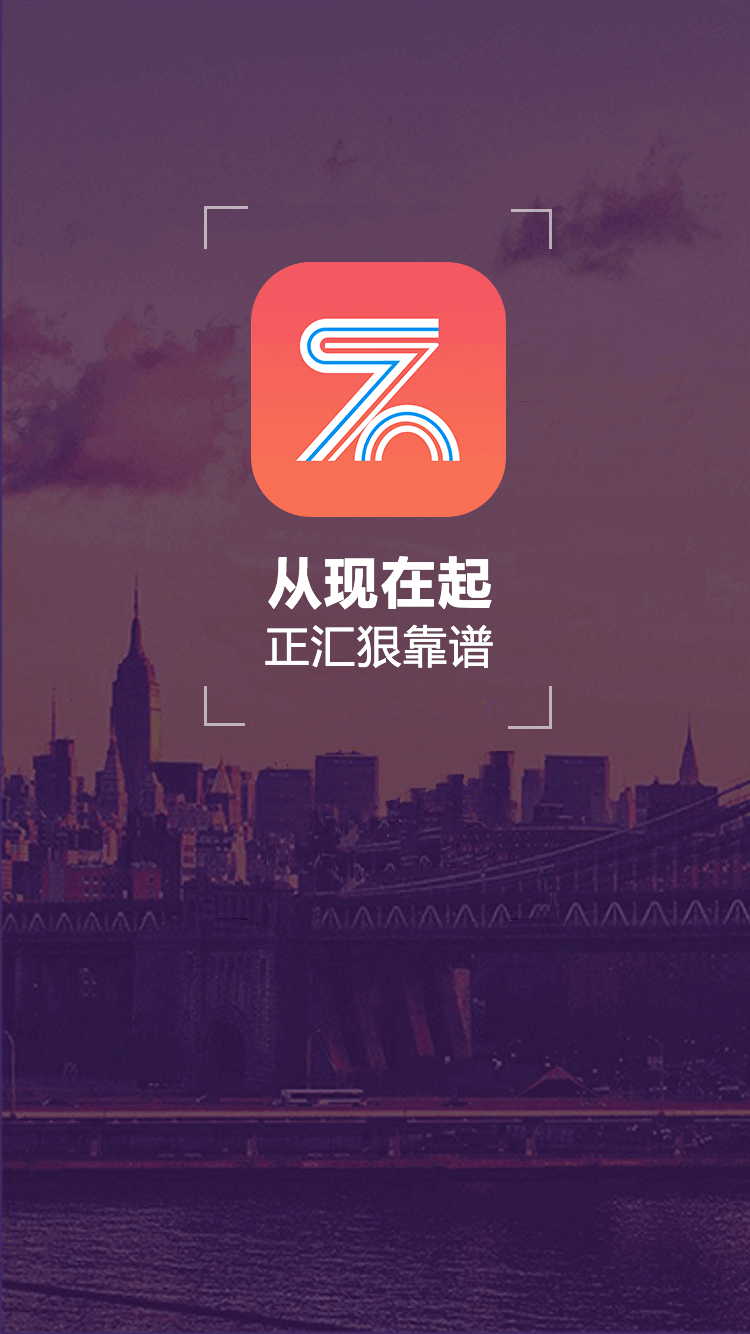
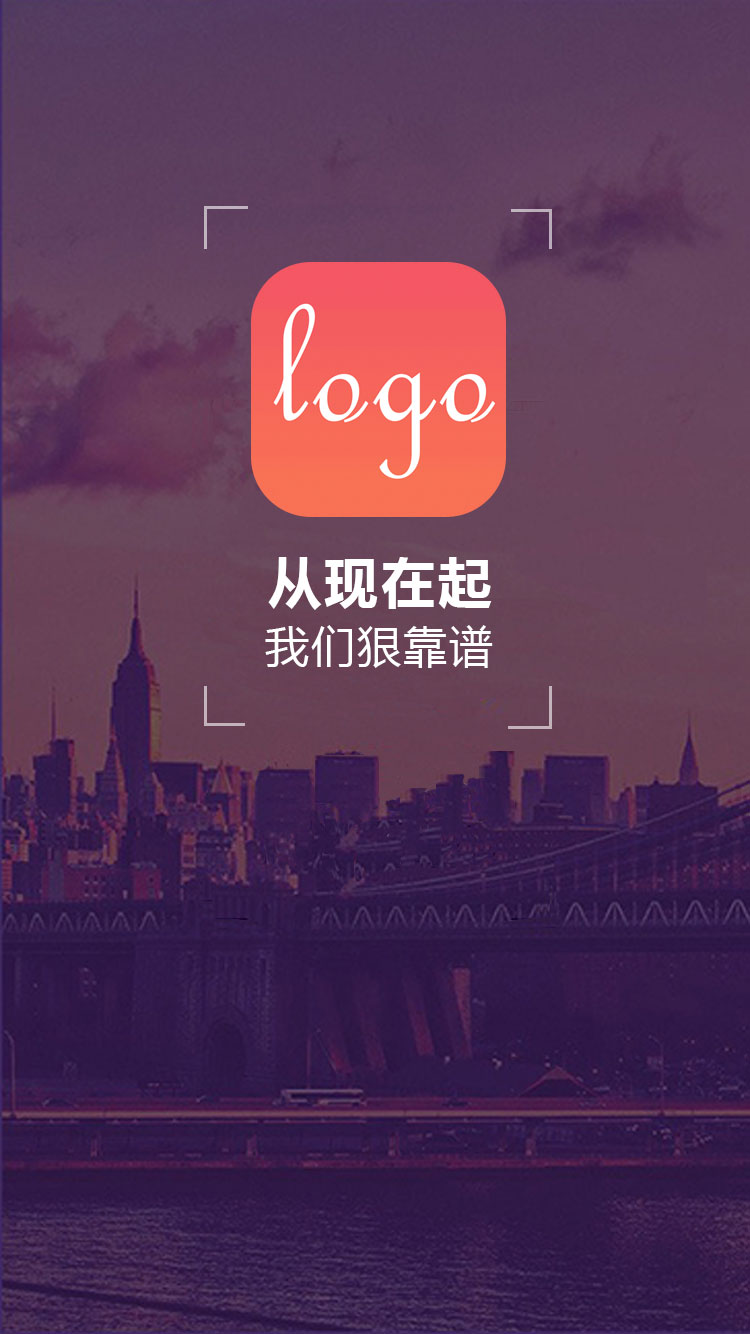
测试版

Changed region(s): [[0.368, 0.2151, 0.6747, 0.3688], [0.3373, 0.4303, 0.644, 0.5225]]

diff --git a/static/html/user/register.html b/static/html/user/register.html
@@ -3,7 +3,7 @@
 
 <head>
     <link rel="import" href="../head.html?__inline">
-    <title>正汇钱包邀您玩转红包；小目标，发一发，摇一摇，聊一聊各种红包玩法，大胸图片</title>
+    <title>会员注册</title>
 	<script src="http://webapi.amap.com/maps?v=1.3&key=24492d6713513af2467d2fd472c8e68d"></script>
 </head>
 
@@ -34,7 +34,7 @@
 		</div>
 		
 		<input type="button" class="rbtn-sub" id="rbtn-sub" value="确定" />
-		<div class="wp100 tc"><p class="rtxt r-protocol">注册即代表同意《正汇钱包用户协议》</p></div>
+		<div class="wp100 tc"><p class="rtxt r-protocol">注册即代表同意《用户协议》</p></div>
 	</div>
 	
 	<div class="r-popup popup-protocol">

diff --git a/static/html/share/share-db.html b/static/html/share/share-db.html
@@ -3,7 +3,7 @@
 
 <head>
     <link rel="import" href="../head.html?__inline">
-    <title>小目标大玩法；正汇钱包邀您一元小目标，大胸图片</title>
+    <title>小目标详情</title>
     <link rel="stylesheet" href="../../js/lib/swiper/swiper.css" />
 </head>
 

diff --git a/static/html/share/share-receive.html b/static/html/share/share-receive.html
@@ -3,7 +3,7 @@
 
 <head>
     <link rel="import" href="../head.html?__inline">
-    <title>正汇钱包邀您领红包；千万红包免费领，快来快来快快来；大胸图片</title>
+    <title>领取红包</title>
 </head>
 
 <body class="hp100 bg-b">

diff --git a/static/html/share/share-qrcord.html b/static/html/share/share-qrcord.html
@@ -3,7 +3,7 @@
 
 <head>
     <link rel="import" href="../head.html?__inline">
-    <title>下载正汇钱包</title>
+    <title>下载APP</title>
     <link rel="stylesheet" href="../../js/lib/swiper/swiper.css" />
 </head>
 
